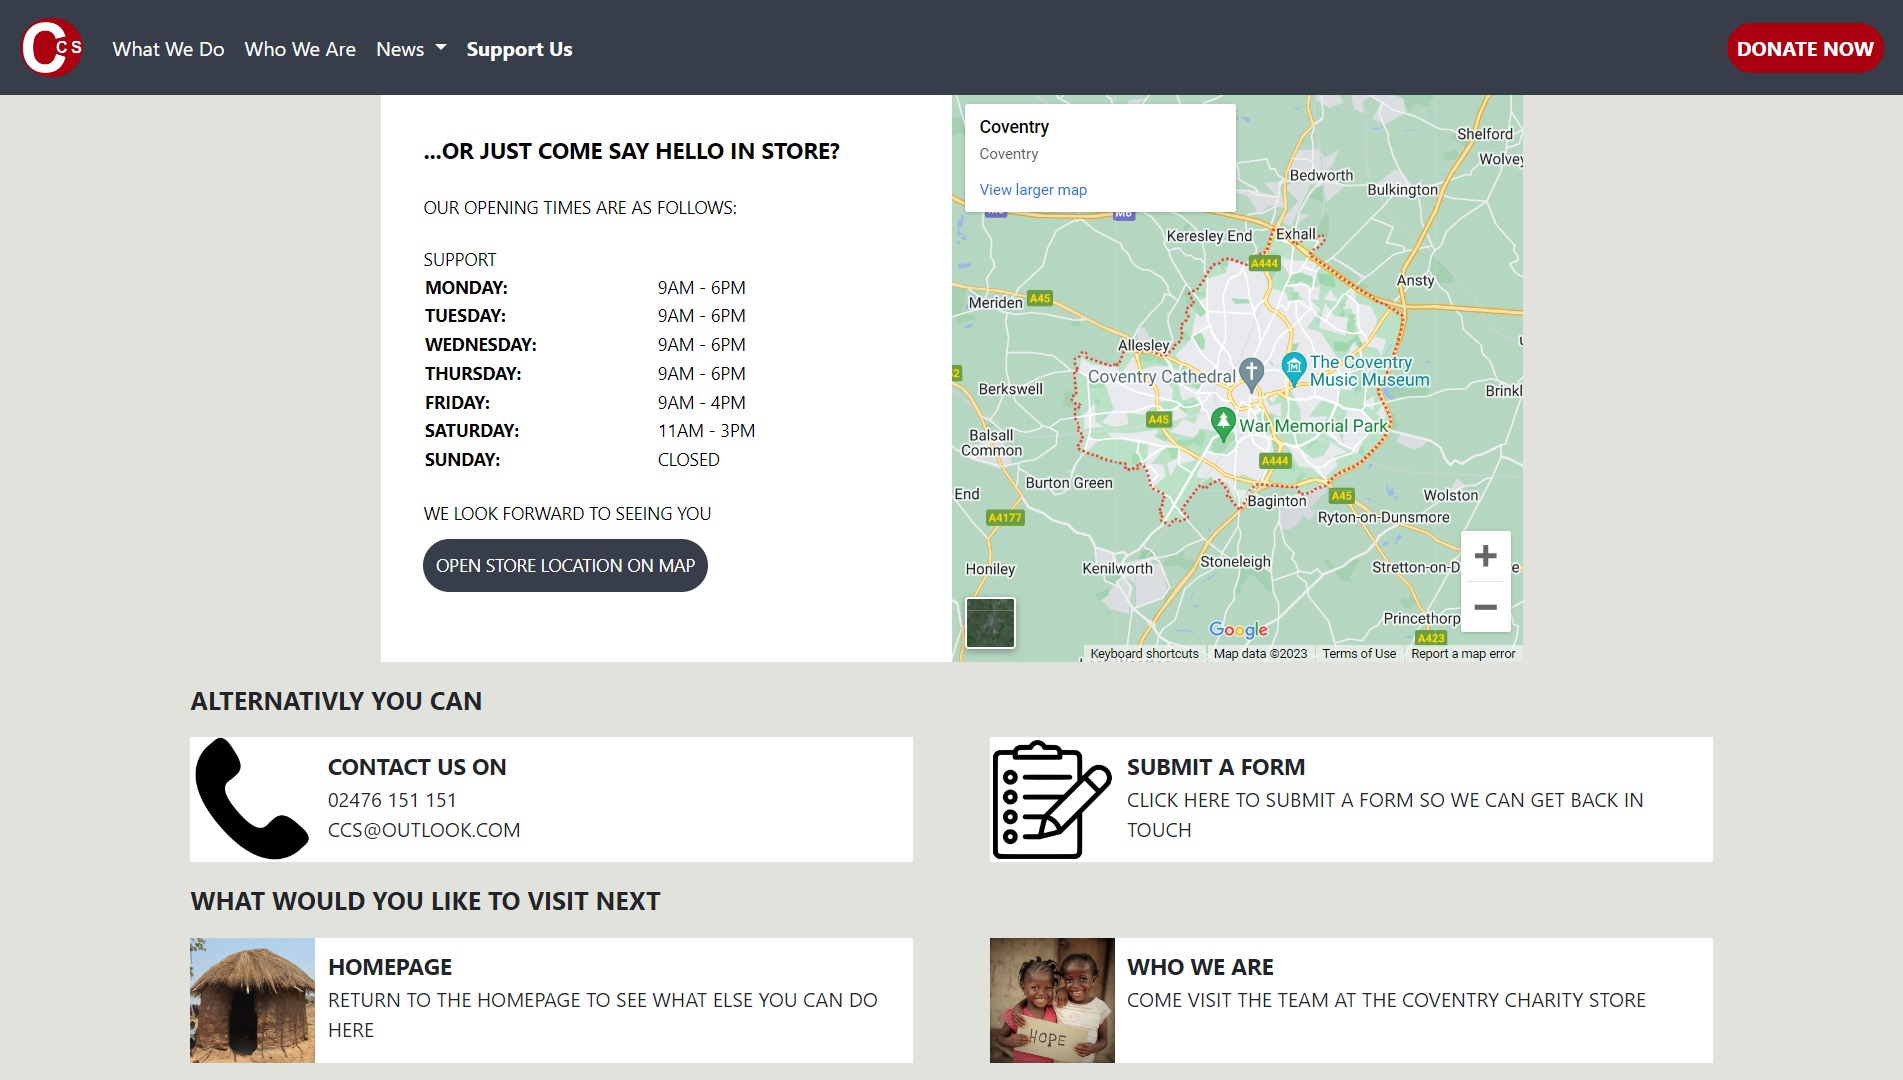
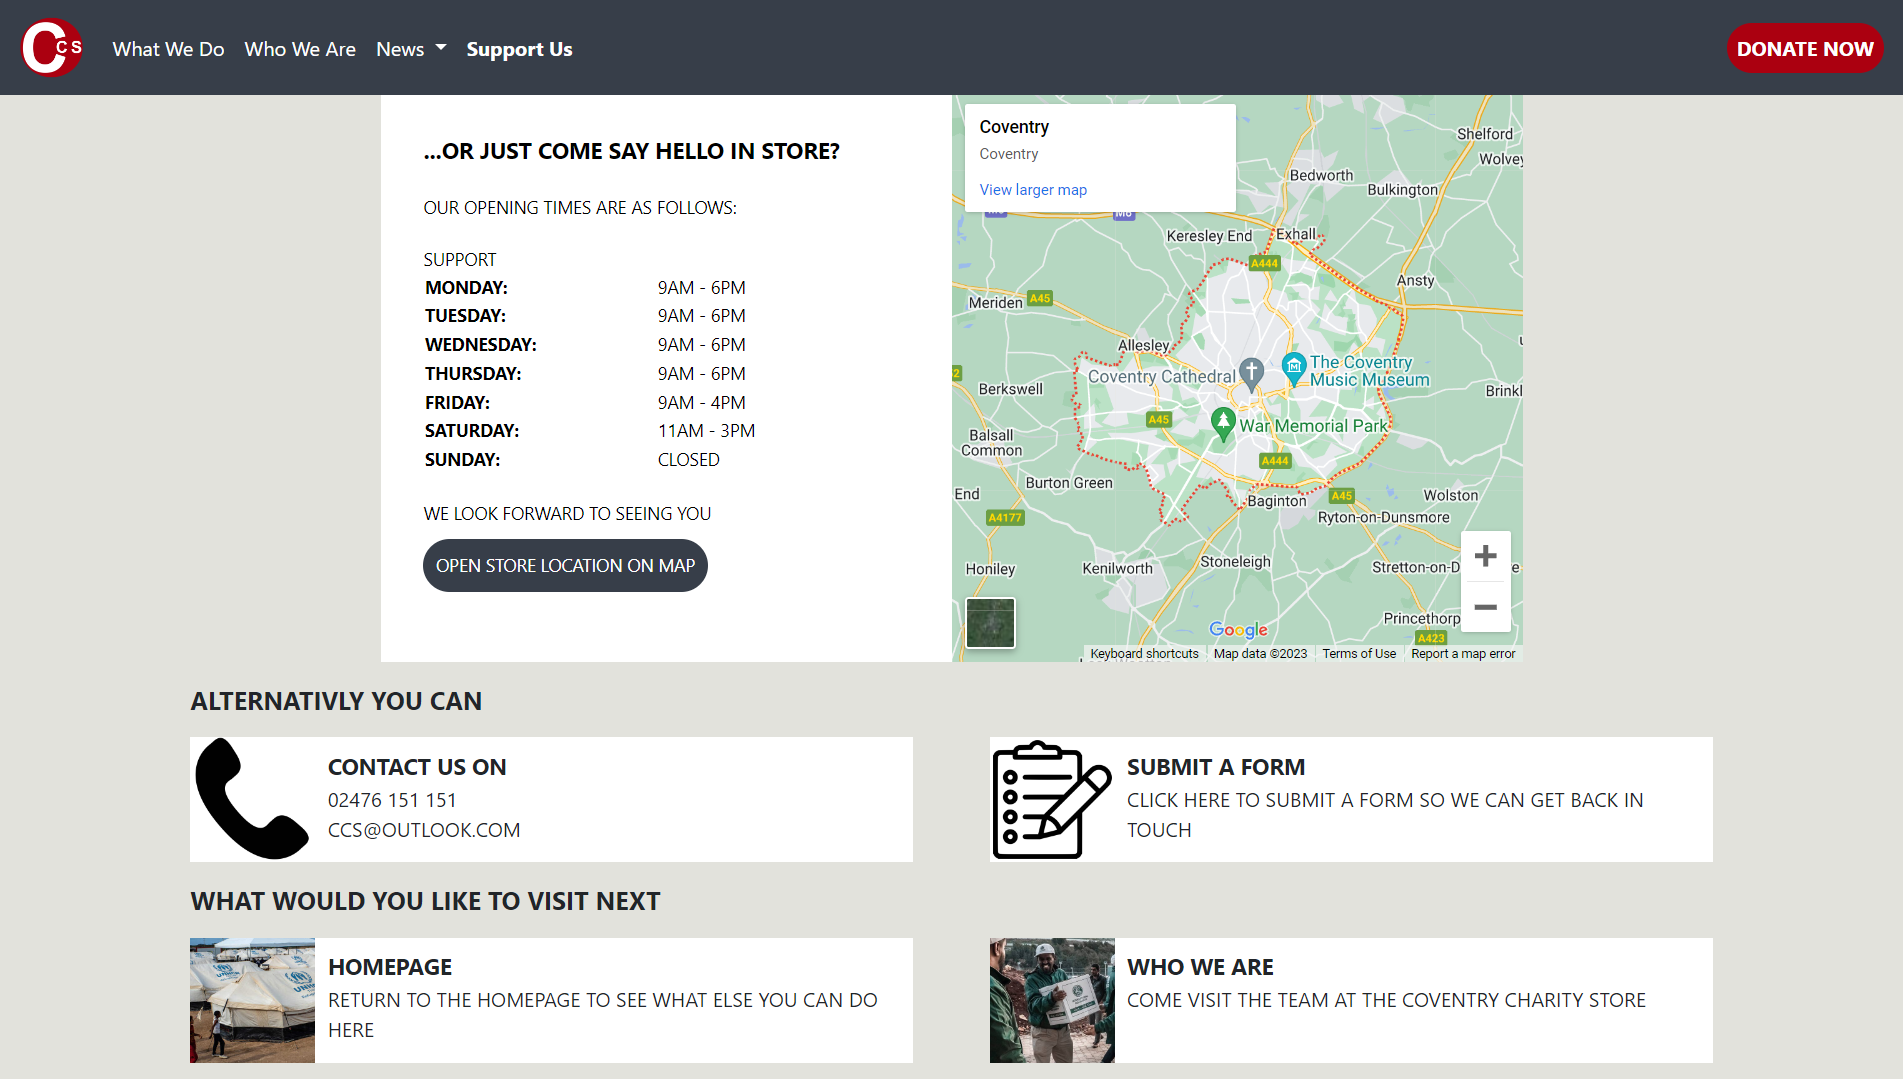
On branch main  Your branch is up to date with 'origin/main'.
Update: The Coventry Charity Store Website Link and Project Images
 upodated on Project Portfolio

 Changes to be committed:
	modified:   public/daniel_mullings_portfolio_website/assets/project_portfolio/the_coventry_charity_store-homepage-img.PNG
	modified:   public/daniel_mullings_portfolio_website/assets/project_portfolio/the_coventry_charity_store-support_us-img.PNG
	modified:   public/daniel_mullings_portfolio_website/html/project_portfolio.html

diff --git a/public/daniel_mullings_portfolio_website/html/project_portfolio.html b/public/daniel_mullings_portfolio_website/html/project_portfolio.html
@@ -126,7 +126,7 @@
               <div><b>Hosted Using: </b> <span class="text-bg-light-dark">Google Firebase, Namecheap <i>(Domain Registration Expired)</i></span></div>
             </p>
             <a type="button" class="btn btn-outline-primary align-top me-3 mb-3 px-4 py-2" href="https://github.com/Daniel-Mullings/The-Coventry-Charity-Store" target="_blank">View GitHub Repository</a>
-            <a type="button" class="btn btn-outline-light mb-3 px-4 py-2" target="_blank" href="https://the-coventry-charity-store-254.web.app/">View Website</a>
+            <a type="button" class="btn btn-outline-light mb-3 px-4 py-2" target="_blank" href="https://daniel-mullings.github.io/The-Coventry-Charity-Store/Homepage.html">View Website</a>
           </div>
         </div>
       </div>
